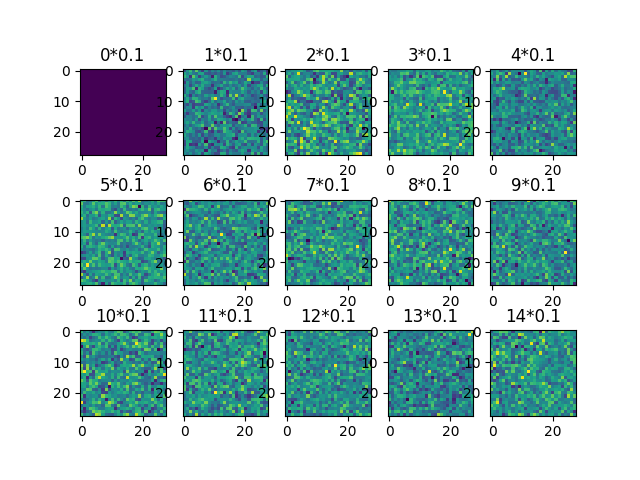
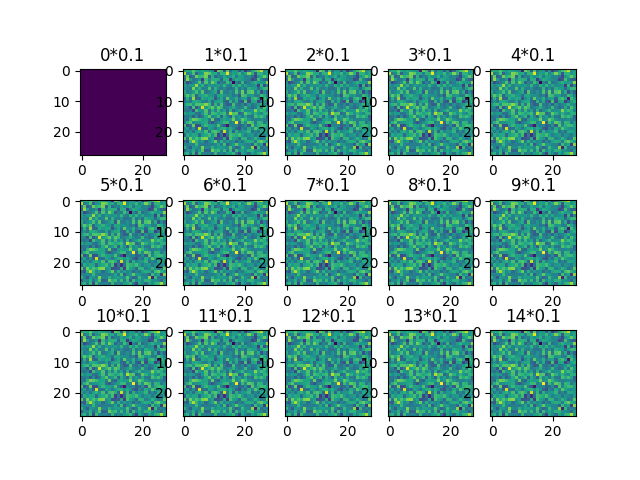
fix readme and random noise definition

Changed region(s): [[0.125, 0.6875, 0.9062, 0.875], [0.125, 0.4062, 0.9062, 0.5938], [0.2812, 0.125, 0.9062, 0.3438]]

diff --git a/experiment.py b/experiment.py
@@ -117,9 +117,10 @@ for i in range(5):
     noise_list = []
     epsilon_list = [j * 0.1 for j in range(15)]
     prediction_list = []
+    random = np.random.randn(28,28,1)
     for j in range(15):
         epsilon = j*0.1
-        noise = epsilon * np.random.randn(28,28,1)
+        noise = epsilon * random
         x_test_adv = x_test[i] + noise
         noise_list.append(noise)
         prediction = classifier.predict([x_test_adv])

diff --git a/README.md b/README.md
@@ -1,6 +1,68 @@
 # zemia-art
 this is a reposiitory for zemi A with Adversarial Robustness toolbox.
 
-- [ ] explaining and harnesting Fig 4の再現実験
-- [ ] random な 場合のperturbationでもFig 4と同じ図を書いてみる
-- [ ] transferabilityが説明がつく理由になっていないのではないか考察する. 
+# TODO
+- [x] explaining and harnesting Fig 4の再現実験
+- [x] random な 場合のperturbationでもFig 4と同じ図を書いてみる
+
+ランダムノイズは, epsilon * np.random.randn(28,28,1)とした.
+理由は, 乱数が0から1の値をとるとしたのは, FGSMにおいてgradientのsignをとる, つまり-1,1という小さな値しか取らないためだ.
+
+- [x] transferabilityが説明がつく理由になっていないのではないか考察する.
+
+hoge_plot.pngとhoge_plot_random_ver.pngを比較するとわかるように, FGSMはターゲットのpredictionがrandom verに比べて傾きが大きいことがわかる. これにより, epsilonが小さい範囲で誤りを最大化させるというミッションにおいてFGSMが有効であることがわかる.
+
+[0_7_plot.png](0_7_plot.png)
+
+
+[0_7_plot_random_ver.png](0_7_plot_random_ver.png)
+
+## FGSM, random noiseのAccuracyの比較
+eps = 0.1 + 0.1 * i (i=0,..,9)としてFGSM及びrandom noiseによるaccuracyの比較を行った.
+以下に結果を示す.
+```
+eps=0.1
+Accuracy on adversarial test examples: 80.47%
+Accuracy on random noise test exampels: 97.76%
+eps=0.2
+Accuracy on adversarial test examples: 57.709999999999994%
+Accuracy on random noise test exampels: 96.05%
+eps=0.30000000000000004
+Accuracy on adversarial test examples: 43.82%
+Accuracy on random noise test exampels: 87.81%
+eps=0.4
+Accuracy on adversarial test examples: 36.49%
+Accuracy on random noise test exampels: 68.97999999999999%
+eps=0.5
+Accuracy on adversarial test examples: 32.83%
+Accuracy on random noise test exampels: 50.14999999999999%
+eps=0.6
+Accuracy on adversarial test examples: 30.990000000000002%
+Accuracy on random noise test exampels: 36.35%
+eps=0.7000000000000001
+Accuracy on adversarial test examples: 30.470000000000002%
+Accuracy on random noise test exampels: 27.98%
+eps=0.8
+Accuracy on adversarial test examples: 29.75%
+Accuracy on random noise test exampels: 22.8%
+eps=0.9
+Accuracy on adversarial test examples: 29.360000000000003%
+Accuracy on random noise test exampels: 19.54%
+eps=1.0
+Accuracy on adversarial test examples: 29.160000000000004%
+Accuracy on random noise test exampels: 17.28%
+```
+やはり, epsilonが小さい値において, FGSMの攻撃力の高さが窺える. 逆に言えば, Accuracyの観点ではFGSMは一定の範囲においてのみ特筆している.
+
+# Usage
+```
+$ git clone https://github.com/speed1313/zemia-art
+$ cd zemia-art
+$ python3 experiment.py
+```
+
+
+# Reference
+- https://github.com/Trusted-AI/adversarial-robustness-toolbox
+- Intriguing property of Machine Learning, https://arxiv.org/abs/1312.6199
+- Explaining and Harnessing Adversarial Examples, https://arxiv.org/abs/1412.6572?context=cs
